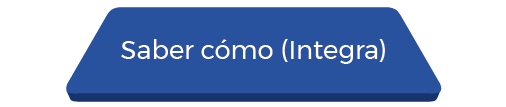
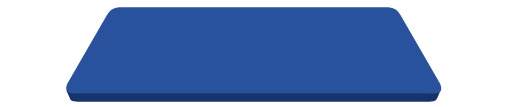
Correccion piramide

Changed region(s): [[0.2372, 0.3645, 0.7708, 0.6168], [0.415, 0.3645, 0.4447, 0.3925]]

diff --git a/estructuras_de_contenido/piramide_miller/content.html b/estructuras_de_contenido/piramide_miller/content.html
@@ -58,76 +58,65 @@
             <h2 class="page-title"></h2>
 
             <section id="pag-inicio" ptitle="">
-                <div id="piramide-miller" class="subpage">
+                <div class="subpage">
                     <p class="instruction"><span class="onlymobile">Toque</span><span class="notmobile">Pase el cursor</span> sobre las casillas de la pirámide para desplegar la información<span class="onlymobile">, la cual se verá bajo la gráfica</span>.</p>
                     <div class="row">
                         <div class="col-2">
                             <div id="piramide" class="mouse-over-one">
-                                <div><img src="content/piramide_de_miller-01.png" class="button current" data-ref="#piramide-hacer" /></div>
-                                <div><img src="content/piramide_de_miller-02.png" class="button" data-ref="#piramide-mostrarcomo" /></div>
-                                <div><img src="content/piramide_de_miller-03.png" class="button" data-ref="#piramide-sabercomo" /></div>
-                                <div><img src="content/piramide_de_miller-04.png" class="button" data-ref="#piramide-saber" /></div>
+                                <div class="button current nivel1" data-ref="#piramide-nivel1">
+                                    <div>Nivel 1</div>
+                                </div>
+                                <div class="button nivel2" data-ref="#piramide-nivel2">
+                                    <div>Nivel 2</div>
+                                </div>
+                                <div class="button nivel3" data-ref="#piramide-nivel3">
+                                    <div>Nivel 3</div>
+                                </div>
+                                <div class="button nivel4" data-ref="#piramide-nivel4">
+                                    <div>Nivel 4</div>
+                                </div>
                             </div>
                         </div>
                         <div class="col-2 info-piramide">
-                            <div id="piramide-hacer">
-                                <h5>Práctica profesional real</h5>
+                            <div id="piramide-nivel1">
+                                <h5>Contenido - Nivel 1</h5>
                                 <p>
-                                    La evaluación se hace en una situación o contexto real como el Mini-CEX (<em>Mini Clinical Evaluation Excercise</em>), OECP (Observación Estructurada de la Práctica Clínica), portafolio, el feedback 360o, las videograbaciones.
+                                    Cras at consectetur eros. Fusce egestas lectus vel ligula iaculis volutpat. Pellentesque aliquet ligula id velit cursus blandit. Duis metus metus, dignissim nec augue a, pharetra cursus leo. Pellentesque congue bibendum nulla eget feugiat. Donec vestibulum volutpat ipsum, non posuere nunc ultricies a. Nullam ac mi ut massa convallis auctor. Suspendisse vestibulum placerat metus eget scelerisque. Lorem ipsum dolor sit amet, consectetur adipiscing elit. Sed auctor enim vel erat aliquet dapibus. Proin pharetra sagittis eros eget ultrices. Fusce maximus sit amet mi quis finibus.
                                 </p>
                                 <ul class="data_list">
-                                    <li>Pruebas orales o escritas de respuesta múltiple</li>
-                                    <li>Pruebas de respuesta corta</li>
-                                    <li>Pruebas de respuesta simple y unívoca</li>
-                                    <li>Pruebas de identificación de componentes a través de figuras</li>
-                                    <li>Pruebas de ordenamiento o jerarquización</li>
-                                    <li>Pruebas de asociación de hechos</li>
-                                    <li>Pruebas de complementación de frases</li>
+                                    <li>Etiam vehicula massa et leo bibendum commodo.</li>
+                                    <li>Morbi interdum urna vel viverra tempus.</li>
+                                    <li>Duis lacinia erat eu felis vestibulum commodo.</li>
+                                    <li>Nullam vitae augue at metus ultricies tempor.</li>
+                                    <li>Phasellus cursus mi eget vehicula tincidunt.</li>
                                 </ul>
                             </div>
-                            <div id="piramide-mostrarcomo" style="display: none;">
-                                <h5>Demostración como actuación del estudiante frente a una situación clínica específica</h5>
+                            <div id="piramide-nivel2" style="display: none;">
+                                <h5>Contenido - Nivel 2</h5>
                                 <p>
-                                    Evaluación del desempeño con el paciente real o simulado, ECOE.
+                                    Morbi porttitor nunc sed sapien sollicitudin, et rhoncus erat lobortis. Vivamus tincidunt aliquet dapibus. Ut quis lobortis tellus. Aliquam erat volutpat. In finibus dolor odio, et porttitor nulla auctor iaculis. Sed tellus est, laoreet ac bibendum a, varius sit amet lorem. Morbi velit ipsum, condimentum in tellus sed, tincidunt imperdiet tellus.
                                 </p>
-                                <p>Se pretende que el estudiante sea capaz de explicar el concepto en cada uno de sus componentes y emplearlo en la solución de  nuevos problemas. Algunas de las posibilidades evaluativas del manejo conceptual son:</p>
-                                <ul class="data_list">
-                                    <li>Observación indirecta con pruebas escritas</li>
-                                    <li>Casos clínicos o con entrevistas</li>
-                                    <li>Pruebas de libro abierto</li>
-                                    <li>Disertaciones orales</li>
-                                    <li>Ensayos</li>
-                                    <li>Mapas conceptuales</li>
-                                    <li>Redes semánticas</li>
-                                </ul>
+                                <p>
+                                    Curabitur turpis libero, elementum quis risus vitae, consequat finibus ligula. Nulla facilisi. Mauris sed arcu sed dolor imperdiet porta. Fusce quam tortor, varius et tortor sit amet, tempus tempor diam. Quisque ultricies dolor id tristique porta. Sed ut lectus risus. Integer non dolor nec massa hendrerit bibendum quis et lorem. Praesent vitae posuere mauris. Praesent sit amet orci augue. Nulla mattis egestas nulla, et dictum libero ullamcorper sed.                                    
+                                </p>
                             </div>
-                            <div id="piramide-sabercomo" style="display: none;">
-                                <h5>Saber cómo utilizar conocimientos para analizar e interpretar</h5>
+                            <div id="piramide-nivel3" style="display: none;">
+                                <h5>Contenido - Nivel 3</h5>
                                 <p>
-                                    Evaluación por observación indirecta con pruebas escritas con casos clínicos o con entrevistas.
+                                    Maecenas feugiat hendrerit massa in porta. Suspendisse potenti. Suspendisse egestas, orci ac ultrices semper, odio risus lacinia tortor, non porttitor eros metus sit amet ex. Fusce tempus lacus id faucibus viverra. Mauris elementum urna diam. Ut mollis vitae lacus id faucibus. Vivamus eu aliquet felis. Nunc et odio sem. Proin eget erat quis elit aliquam convallis. Vivamus gravida libero eget justo vehicula, porta dapibus sem facilisis. In vehicula vestibulum semper. Sed eu mattis est. Nullam id ligula eu eros tristique aliquet ac a orci. Morbi felis nulla, finibus ultrices hendrerit eget, aliquet vehicula nunc. Morbi in bibendum tellus, sed tristique nisl. Ut id ullamcorper magna, ac bibendum sapien.
                                 </p>
-                                <ul class="data_list">
-                                    <li>Evaluación del desempeño con el paciente real o simulado</li>
-                                    <li>Experimentos tecnológicos</li>
-                                    <li>Métodos de creatividad</li>
-                                    <li>Estudios de caso</li>
-                                    <li>Juegos de roles y dramatización</li>
-                                    <li>Entrevistas</li>
-                                    <li>Observación</li>
-                                    <li>Métodos de simulación</li>
-                                </ul>
+                                <p>
+                                    Fusce sit amet imperdiet odio. Donec massa purus, efficitur non aliquam in, euismod eget mauris. Nulla molestie nisl mi, non feugiat ex eleifend non. Nunc sollicitudin sodales nisl, eu egestas sapien euismod non. Praesent rutrum pellentesque lorem, ac tempus sem accumsan at. Maecenas non ligula velit. Donec imperdiet vitae purus ut elementum. Suspendisse vulputate felis nec libero vestibulum, vitae egestas mauris fermentum. Nullam lacinia posuere urna laoreet iaculis.
+                                </p>
                             </div>
-                            <div id="piramide-saber" style="display: none;">
-                                <h5>Recordar contenidos, teorías y datos</h5>
+                            <div id="piramide-nivel4" style="display: none;">
+                                <h5>Contenido - Nivel 4</h5>
                                 <p>
-                                    Pruebas orales o escritas de respuesta múltiple, de respuesta corta.
+                                    Lorem ipsum dolor sit amet, consectetur adipiscing elit. Nam tempor viverra tortor. Cras luctus leo ullamcorper dui lobortis cursus sit amet ac urna. Aliquam efficitur, diam et commodo malesuada, mi lectus venenatis ante, at tincidunt nisi orci vel ligula. Curabitur consequat, elit in iaculis tempor, magna mi bibendum elit, non bibendum velit tortor eu odio. Nulla ac interdum augue. Maecenas sed tristique orci, non posuere odio. Donec quis arcu non eros sodales faucibus et a ligula. Integer ac dictum mauris. Morbi a justo sit amet mauris cursus lacinia at et leo. In congue ullamcorper lectus, eget bibendum ipsum commodo at. Sed nec nibh nec mauris dictum egestas. Aliquam sodales, dolor non ullamcorper aliquam, enim quam tincidunt risus, nec gravida mi nibh at ligula. In ornare enim eget nisi convallis, ac gravida ex euismod. In dolor magna, finibus id elementum vel, fermentum eu lorem. Donec in maximus sem. Suspendisse molestie metus nisl, ac scelerisque ante sagittis eu.
                                 </p>
-                                <p>La práctica profesional real puede ser evaluada a través de una situación o contexto real como los siguientes:</p>
-                                <ul class="data_list">
-                                    <li>Portafolio</li>
-                                    <li>Feedback 360o</li>
-                                    <li>Videograbaciones</li>
-                                </ul>
+                                <p>
+                                    Morbi porttitor nunc sed sapien sollicitudin, et rhoncus erat lobortis. Vivamus tincidunt aliquet dapibus. Ut quis lobortis tellus. Aliquam erat volutpat. In finibus dolor odio, et porttitor nulla auctor iaculis. Sed tellus est, laoreet ac bibendum a, varius sit amet lorem. Morbi velit ipsum, condimentum in tellus sed, tincidunt imperdiet tellus.
+                                </p>
                             </div>
                         </div>
                     </div>

diff --git a/estructuras_de_contenido/piramide_miller/css/custommobile.css b/estructuras_de_contenido/piramide_miller/css/custommobile.css
@@ -1,27 +1,59 @@
+#body {
+    min-width: 520px;
+}
 /********************************************************************************/
 /* Interactivo pirámide
 /********************************************************************************/
-#piramide-miller {
-    margin-bottom: 50px;
-}
-
 .titulo-piramide {
     text-align: center;
     font-size: 25px;
     color: #333;
 }
 
-#piramide div {
-    text-align: center;
+#piramide {min-width: 500px;}
+
+#piramide .button {
+    display: flex;
+    justify-content: center;
+    align-items: flex-end;
+    padding: 0;
 }
 
-#piramide div img {
+#piramide .nivel1 {
+    background: url(../content/piramide_de_miller-01.png) no-repeat center;   
+    height: 128px;
+}
+
+#piramide .nivel2 {
+    background: url(../content/piramide_de_miller-02.png) no-repeat center;   
+    height: 100px;
+}
+
+#piramide .nivel3 {
+    background: url(../content/piramide_de_miller-03.png) no-repeat center;   
+    height: 101px;
+}
+
+#piramide .nivel4 {
+    background: url(../content/piramide_de_miller-04.png) no-repeat center;   
+    height: 104px;
+}
+
+#piramide div {
+    text-align: center;
+    color: #fff;
+    font-weight: bold;
+    font-size: 28px;
+    padding-bottom: 20px;
+}
+
+#piramide div {
     filter: grayscale(1);
     max-width: 100%;
 }
 
-#piramide div img.active,
-#piramide div img.current {
+#piramide div.active,
+#piramide div.current {
     filter: grayscale(0);
 }
 
@@ -34,42 +66,42 @@
     margin: 10px auto;
 }
 
-#piramide-hacer {
+#piramide-nivel1 {
     border: 2px solid #e49525;
     border-radius: 10px;
     padding: 10px;
 }
 
-#piramide-hacer h5 {
+#piramide-nivel1 h5 {
     color: #e49525;
 }
 
-#piramide-mostrarcomo {
+#piramide-nivel2 {
     border: 2px solid #bd6a3c;
     border-radius: 10px;
     padding: 10px;
 }
 
-#piramide-mostrarcomo h5 {
+#piramide-nivel2 h5 {
     color: #bd6a3c;
 }
 
-#piramide-sabercomo {
+#piramide-nivel3 {
     border: 2px solid #28519e;
     border-radius: 10px;
     padding: 10px;
 }
 
-#piramide-sabercomo h5 {
+#piramide-nivel3 h5 {
     color: #28519e;
 }
 
-#piramide-saber {
+#piramide-nivel4 {
     border: 2px solid #3db3af;
     border-radius: 10px;
     padding: 10px;
 }
 
-#piramide-saber h5 {
+#piramide-nivel4 h5 {
     color: #3db3af;
 }

diff --git a/estructuras_de_contenido/piramide_miller/css/custom.css b/estructuras_de_contenido/piramide_miller/css/custom.css
@@ -1,27 +1,56 @@
 /********************************************************************************/
 /* Interactivo pirámide
 /********************************************************************************/
-#piramide-miller {
-    margin-bottom: 50px;
-}
-
 .titulo-piramide {
     text-align: center;
     font-size: 25px;
     color: #333;
 }
 
-#piramide div {
-    text-align: center;
+#piramide {min-width: 500px;}
+
+#piramide .button {
+    display: flex;
+    justify-content: center;
+    align-items: flex-end;
+    padding: 0;
 }
 
-#piramide div img {
+#piramide .nivel1 {
+    background: url(../content/piramide_de_miller-01.png) no-repeat center;   
+    height: 128px;
+}
+
+#piramide .nivel2 {
+    background: url(../content/piramide_de_miller-02.png) no-repeat center;   
+    height: 100px;
+}
+
+#piramide .nivel3 {
+    background: url(../content/piramide_de_miller-03.png) no-repeat center;   
+    height: 101px;
+}
+
+#piramide .nivel4 {
+    background: url(../content/piramide_de_miller-04.png) no-repeat center;   
+    height: 104px;
+}
+
+#piramide div {
+    text-align: center;
+    color: #fff;
+    font-weight: bold;
+    font-size: 28px;
+    padding-bottom: 20px;
+}
+
+#piramide div {
     filter: grayscale(1);
     max-width: 100%;
 }
 
-#piramide div img.active,
-#piramide div img.current {
+#piramide div.active,
+#piramide div.current {
     filter: grayscale(0);
 }
 
@@ -34,42 +63,42 @@
     margin: 10px auto;
 }
 
-#piramide-hacer {
+#piramide-nivel1 {
     border: 2px solid #e49525;
     border-radius: 10px;
     padding: 10px;
 }
 
-#piramide-hacer h5 {
+#piramide-nivel1 h5 {
     color: #e49525;
 }
 
-#piramide-mostrarcomo {
+#piramide-nivel2 {
     border: 2px solid #bd6a3c;
     border-radius: 10px;
     padding: 10px;
 }
 
-#piramide-mostrarcomo h5 {
+#piramide-nivel2 h5 {
     color: #bd6a3c;
 }
 
-#piramide-sabercomo {
+#piramide-nivel3 {
     border: 2px solid #28519e;
     border-radius: 10px;
     padding: 10px;
 }
 
-#piramide-sabercomo h5 {
+#piramide-nivel3 h5 {
     color: #28519e;
 }
 
-#piramide-saber {
+#piramide-nivel4 {
     border: 2px solid #3db3af;
     border-radius: 10px;
     padding: 10px;
 }
 
-#piramide-saber h5 {
+#piramide-nivel4 h5 {
     color: #3db3af;
 }
